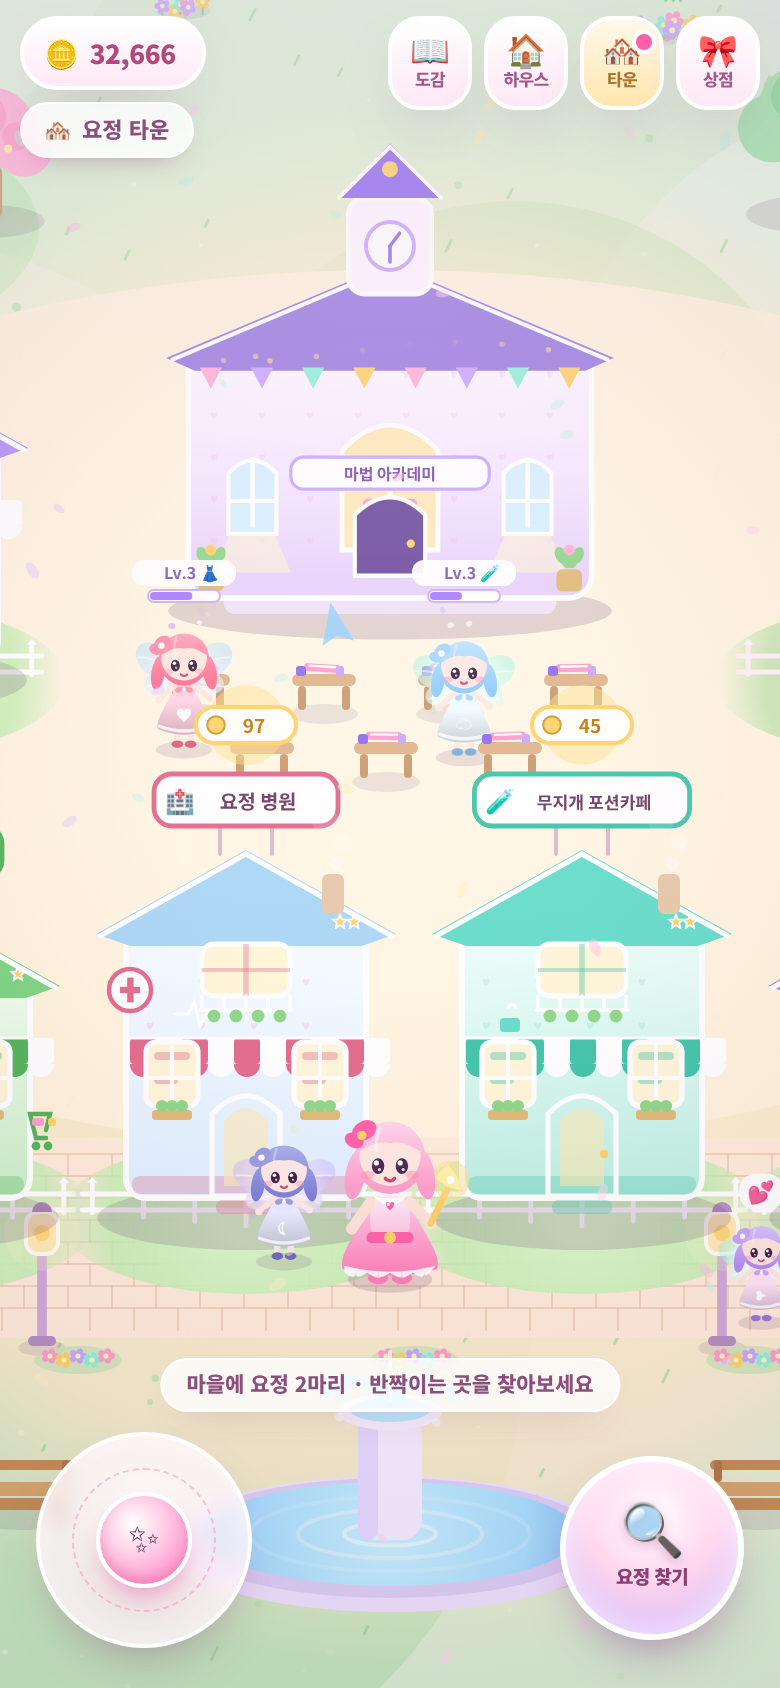
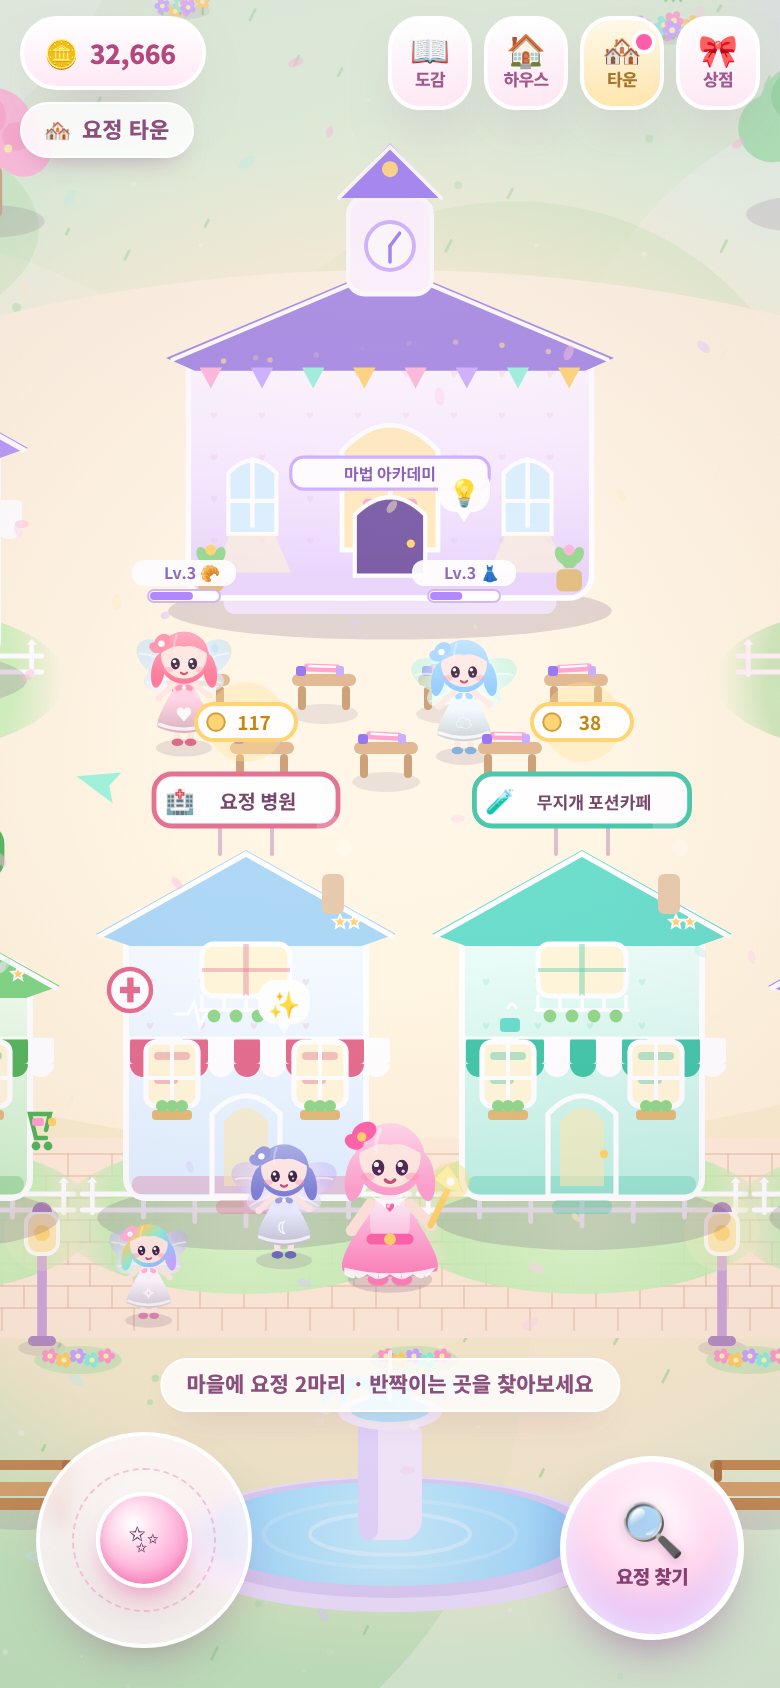
매직 하트핑: 타운 첫 방문 안내 · 미리보기 preview-fairy-town.png 갱신

diff --git a/fairy-catch/fairy-catch-safari.html b/fairy-catch/fairy-catch-safari.html
@@ -2703,6 +2703,10 @@ function openSheet(id){
   if(id==='town'){
     if(townSel==null||S.house.indexOf(townSel)<0) townSel=S.house[0]||null;
     townUiT=0; renderTown();
+    if(!S.townSeen){
+      S.townSeen=true; save();
+      setTimeout(function(){ toast('🏘 요정들이 스스로 공부하고 장사해요 · 땅을 사서 가게를 열어 보세요',3000); },420);
+    }
   }
 }
 function closeSheet(){
@@ -5497,7 +5501,7 @@ function renderTown(){
       main.innerHTML=
         '<div class="fn">'+FD[id].name+'<span class="lv">Lv.'+st.lv+'</span>'+
           (mj?'<span class="lv">'+mj.icon+mj.name+'</span>':'<span class="lv">전공 미정</span>')+buffs+'</div>'+
-        '<div class="hpline"><span class="hpi">❤</span><span class="hpbar"><i style="width:'+Math.round(fs.hp)+'%"></i></span>'+
+        '<div class="hpline"><span class="hpi">♥</span><span class="hpbar"><i style="width:'+Math.round(fs.hp)+'%"></i></span>'+
           '<span class="hpnum">'+Math.round(fs.hp)+'</span>'+
           '<span class="wallet">🪙 '+Math.floor(fs.wallet)+'</span>'+
           '<span class="wl">공 '+Math.floor(pct)+'%</span></div>'+

diff --git a/fairy-catch/index.html b/fairy-catch/index.html
@@ -2703,6 +2703,10 @@ function openSheet(id){
   if(id==='town'){
     if(townSel==null||S.house.indexOf(townSel)<0) townSel=S.house[0]||null;
     townUiT=0; renderTown();
+    if(!S.townSeen){
+      S.townSeen=true; save();
+      setTimeout(function(){ toast('🏘 요정들이 스스로 공부하고 장사해요 · 땅을 사서 가게를 열어 보세요',3000); },420);
+    }
   }
 }
 function closeSheet(){
@@ -5497,7 +5501,7 @@ function renderTown(){
       main.innerHTML=
         '<div class="fn">'+FD[id].name+'<span class="lv">Lv.'+st.lv+'</span>'+
           (mj?'<span class="lv">'+mj.icon+mj.name+'</span>':'<span class="lv">전공 미정</span>')+buffs+'</div>'+
-        '<div class="hpline"><span class="hpi">❤</span><span class="hpbar"><i style="width:'+Math.round(fs.hp)+'%"></i></span>'+
+        '<div class="hpline"><span class="hpi">♥</span><span class="hpbar"><i style="width:'+Math.round(fs.hp)+'%"></i></span>'+
           '<span class="hpnum">'+Math.round(fs.hp)+'</span>'+
           '<span class="wallet">🪙 '+Math.floor(fs.wallet)+'</span>'+
           '<span class="wl">공 '+Math.floor(pct)+'%</span></div>'+
